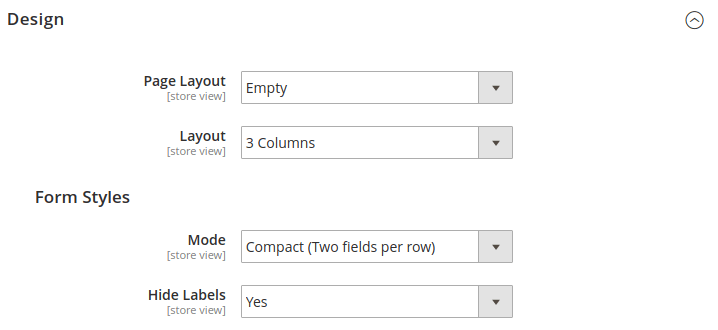
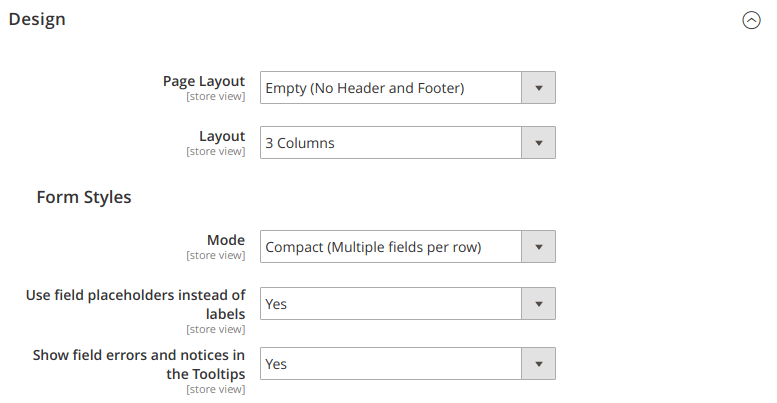
Firecheckout M1: tooltips added

diff --git a/m2/extensions/firecheckout/configuration.md b/m2/extensions/firecheckout/configuration.md
@@ -64,16 +64,24 @@ Layout screenshots:
 
 #### Form Styles
 
-There are three form modes available:
+There are three form **modes** available:
 
  -  [Horizontal](#&gid=3&pid=1) (Label aside of the field)
  -  [Basic](#&gid=3&pid=2) (Same as horizontal, except label above the field)
- -  [Compact](#&gid=3&pid=3) (Two fields per row)
-
-You can also hide labels and use field placeholders instead. This option works
-together with **Basic** and **Compact** modes only.
+ -  [Compact](#&gid=3&pid=3) (Multiple fields per row. [How to change field size?](/m2/extensions/firecheckout/customization/use-cases/field-size/))
 
 {% include gallery.html images=site.data.gallery.m2.firecheckout.configuration.form-styles class="scroll phone-up-1 tablet-up-3 photoswipe" %}
+
+**Use field placeholders instead of labels** - You can hide labels and use field
+placeholders instead. This option works together with **Basic** and **Compact**
+modes only:
+
+{% include gallery.html images=site.data.gallery.m2.firecheckout.configuration.hidden-labels class="scroll phone-up-1 tablet-up-3 photoswipe" %}
+
+**Show field errors and notices in the Tooltips** - Allows you to switch between
+awesome Tooltips mode and Magento's old-school notices and errors below the fields:
+
+{% include gallery.html images=site.data.gallery.m2.firecheckout.configuration.tooltips class="scroll phone-up-1 tablet-up-3 photoswipe" %}
 
 ### Additional content section
 

diff --git a/m2/extensions/firecheckout/changelog.md b/m2/extensions/firecheckout/changelog.md
@@ -8,6 +8,12 @@ category: Firecheckout
 
 # Changelog
 
+### Version 1.13.0
+
+{% include gallery.html images=site.data.gallery.m2.firecheckout.changelog.v1130 class="phone-up-2 tablet-up-3 photoswipe scroll" %}
+
+ -  Form field errors and notices moved to stylish tooltips. [Configurable](/m2/extensions/firecheckout/configuration/#design-section)
+
 ### Version 1.12.0
 
 Firecheckout **1.12.0** brings more power to advanced users and developers who
